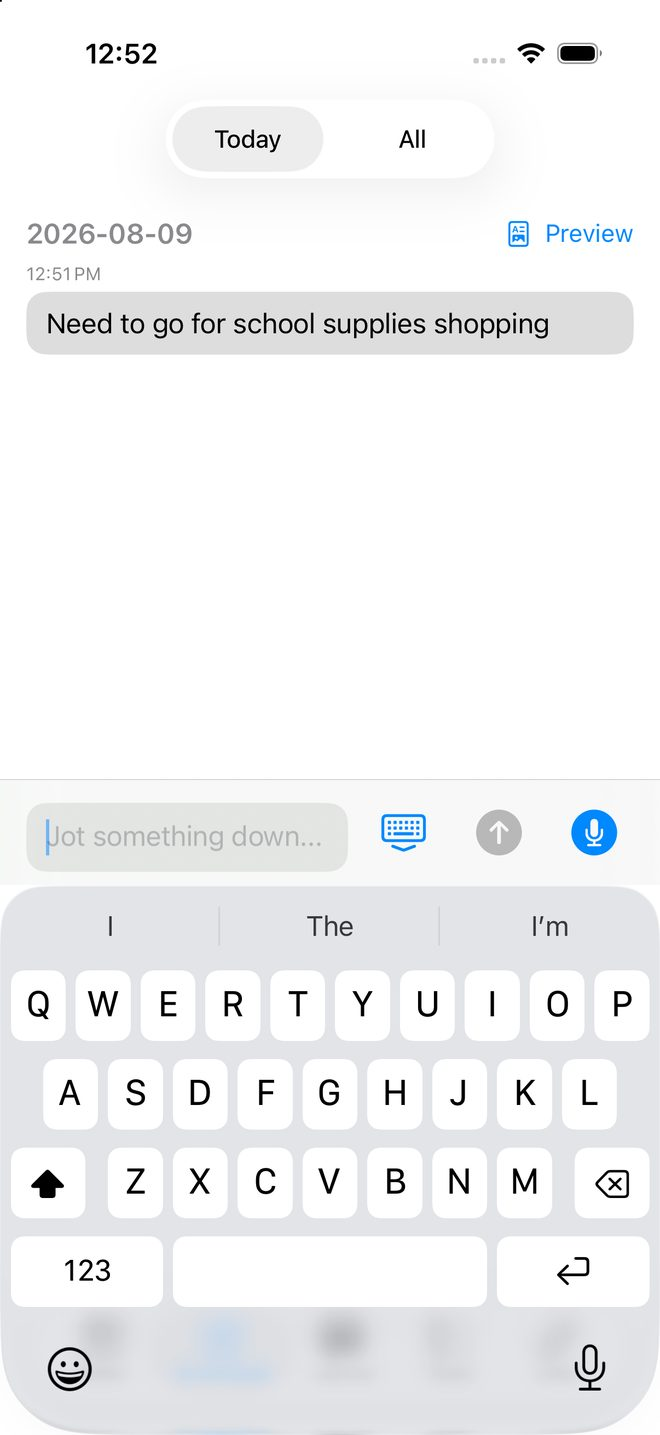
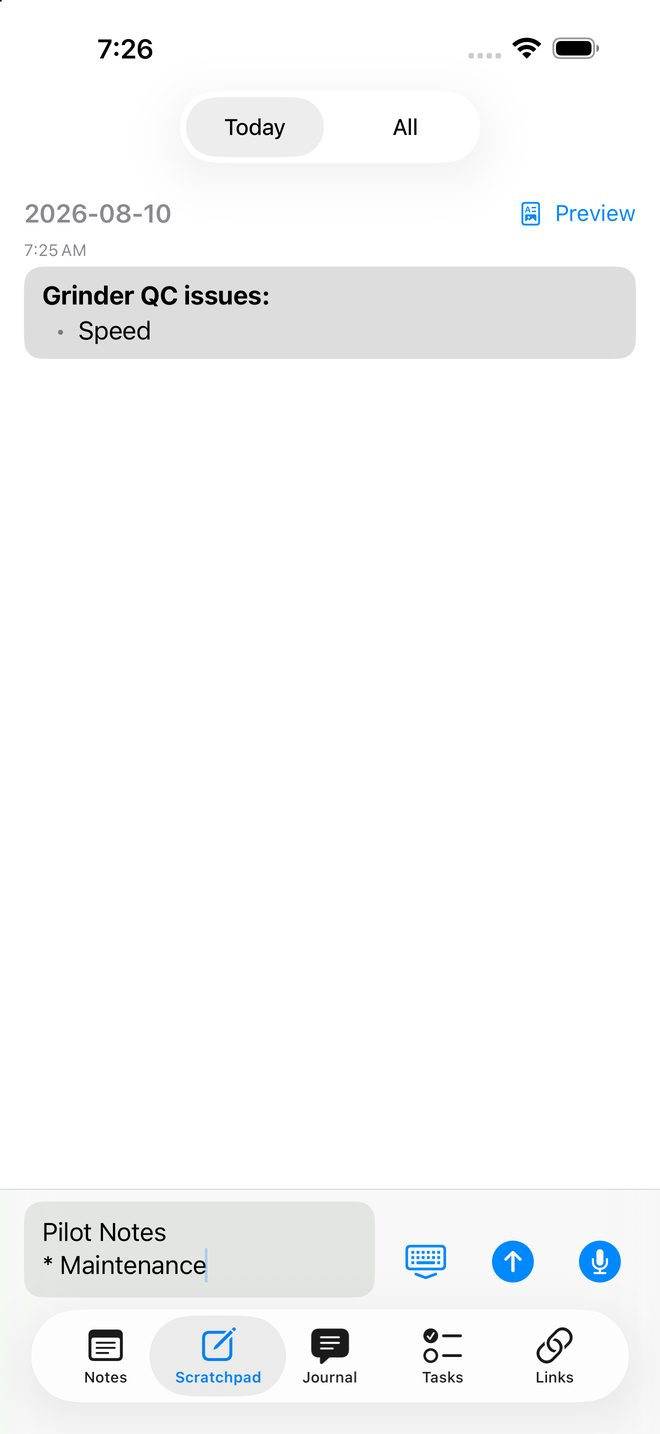
Swap in the 6.9-inch iPhone screenshots
Replaces the 6.3-inch captures, which App Store Connect will not accept,
with eight shots at 1320x2868: capture, inbox, the new-note menu, the
markdown editor, JSON, tasks, sticky notes and the journal.

The note-type menu shot is a re-take. The earlier one listed Journal as a
creatable type, which was a bug in the app, so the menu now shows the
eleven types the Formats section already claims.

Phone frame aspect-ratio follows the captures at 1320/2868.

diff --git a/scratchd/index.html b/scratchd/index.html
@@ -84,54 +84,64 @@
     </header>
 
     <!-- ============ IPHONE SHOTS ============ -->
-    <!-- Still to shoot, per marketing/frame-screenshots.py: iphone-07-files
-         (Files app over the notes folder) and iphone-08-voice (voice note
-         transcribing). Add them as two more <figure class="shot"> blocks in the
-         same shape once captured. -->
     <section class="section tight" aria-label="Scratchd on iPhone">
       <div class="wrap">
         <div class="shots">
 
           <figure class="shot">
             <div class="phone"><div class="screen">
-              <img src="../assets/scratchd/shots/iphone-01-capture.jpg" alt="Scratchpad, mid&#8209;jot" width="660" height="1435" loading="lazy" />
+              <img src="../assets/scratchd/shots/iphone-01-capture.jpg" alt="Scratchpad with the jot field open" width="660" height="1434" loading="lazy" />
             </div></div>
             <figcaption>Type first. Decide later.</figcaption>
           </figure>
 
           <figure class="shot">
             <div class="phone"><div class="screen">
-              <img src="../assets/scratchd/shots/iphone-02-inbox.jpg" alt="Inbox with mixed note types" width="660" height="1435" loading="lazy" />
+              <img src="../assets/scratchd/shots/iphone-02-inbox.jpg" alt="Inbox with mixed note types" width="660" height="1434" loading="lazy" />
             </div></div>
             <figcaption>One inbox. Filing is optional.</figcaption>
           </figure>
 
           <figure class="shot">
             <div class="phone"><div class="screen">
-              <img src="../assets/scratchd/shots/iphone-03-types.jpg" alt="New&#8209;note menu, all eleven types" width="660" height="1435" loading="lazy" />
+              <img src="../assets/scratchd/shots/iphone-03-types.jpg" alt="The new&#8209;note menu listing every note type" width="660" height="1434" loading="lazy" />
             </div></div>
             <figcaption>Eleven kinds of note.</figcaption>
           </figure>
 
           <figure class="shot">
             <div class="phone"><div class="screen">
-              <img src="../assets/scratchd/shots/iphone-04-tasks.jpg" alt="Tasks, natural&#8209;language entry" width="660" height="1435" loading="lazy" />
+              <img src="../assets/scratchd/shots/iphone-04-editor.jpg" alt="Markdown note being edited" width="660" height="1434" loading="lazy" />
+            </div></div>
+            <figcaption>Write. It&rsquo;s already saved.</figcaption>
+          </figure>
+
+          <figure class="shot">
+            <div class="phone"><div class="screen">
+              <img src="../assets/scratchd/shots/iphone-05-json.jpg" alt="JSON rendered as a browsable tree" width="660" height="1434" loading="lazy" />
+            </div></div>
+            <figcaption>JSON that reads like JSON.</figcaption>
+          </figure>
+
+          <figure class="shot">
+            <div class="phone"><div class="screen">
+              <img src="../assets/scratchd/shots/iphone-06-tasks.jpg" alt="Tasks, natural&#8209;language entry" width="660" height="1434" loading="lazy" />
             </div></div>
             <figcaption>Plain English becomes a task.</figcaption>
           </figure>
 
           <figure class="shot">
             <div class="phone"><div class="screen">
-              <img src="../assets/scratchd/shots/iphone-05-journal.jpg" alt="Journal with the mood row" width="660" height="1435" loading="lazy" />
+              <img src="../assets/scratchd/shots/iphone-07-sticky.jpg" alt="Sticky note board" width="660" height="1434" loading="lazy" />
             </div></div>
-            <figcaption>A journal that doesn&rsquo;t nag.</figcaption>
+            <figcaption>Room for the messy stage.</figcaption>
           </figure>
 
           <figure class="shot">
             <div class="phone"><div class="screen">
-              <img src="../assets/scratchd/shots/iphone-06-links.jpg" alt="Link collections" width="660" height="1435" loading="lazy" />
+              <img src="../assets/scratchd/shots/iphone-08-journal.jpg" alt="Journal prompt with the mood picker" width="660" height="1434" loading="lazy" />
             </div></div>
-            <figcaption>Read it later, same library.</figcaption>
+            <figcaption>A journal that doesn&rsquo;t nag.</figcaption>
           </figure>
 
         </div>

diff --git a/scratchd/scratchd.css b/scratchd/scratchd.css
@@ -402,7 +402,7 @@ kbd {
 .phone .screen {
   position: relative;
   width: 100%;
-  aspect-ratio: 1206 / 2622;   /* iPhone 16 Pro, matching the captures */
+  aspect-ratio: 1320 / 2868;   /* iPhone 6.9", matching the captures */
   border-radius: 11%/5%;
   overflow: hidden;
   background: #0d0d10;
